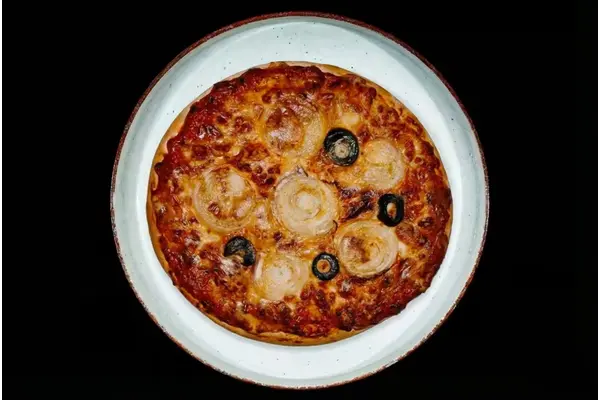
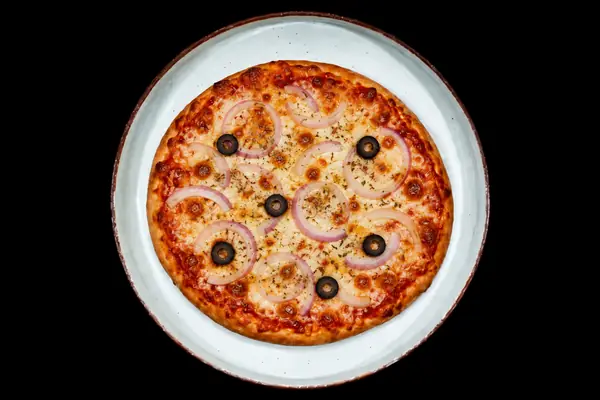
feat(images): replace Zesty Onion Feast photo

diff --git a/PROGRESS.md b/PROGRESS.md
@@ -1,3 +1,9 @@
+## 2026-09-27 — Zesty Onion Feast photo
+
+- Replaced the old Zesty Onion Feast Pizza image with the owner's supplied
+  centered 3:2 photo. Retained product code 745802369 and the existing
+  600x400 WebP/AVIF asset paths.
+
 ## 2026-09-27 — sandwich names and spice labels
 
 - Renamed the six existing grilled sandwich menu items to the owner's Melt
